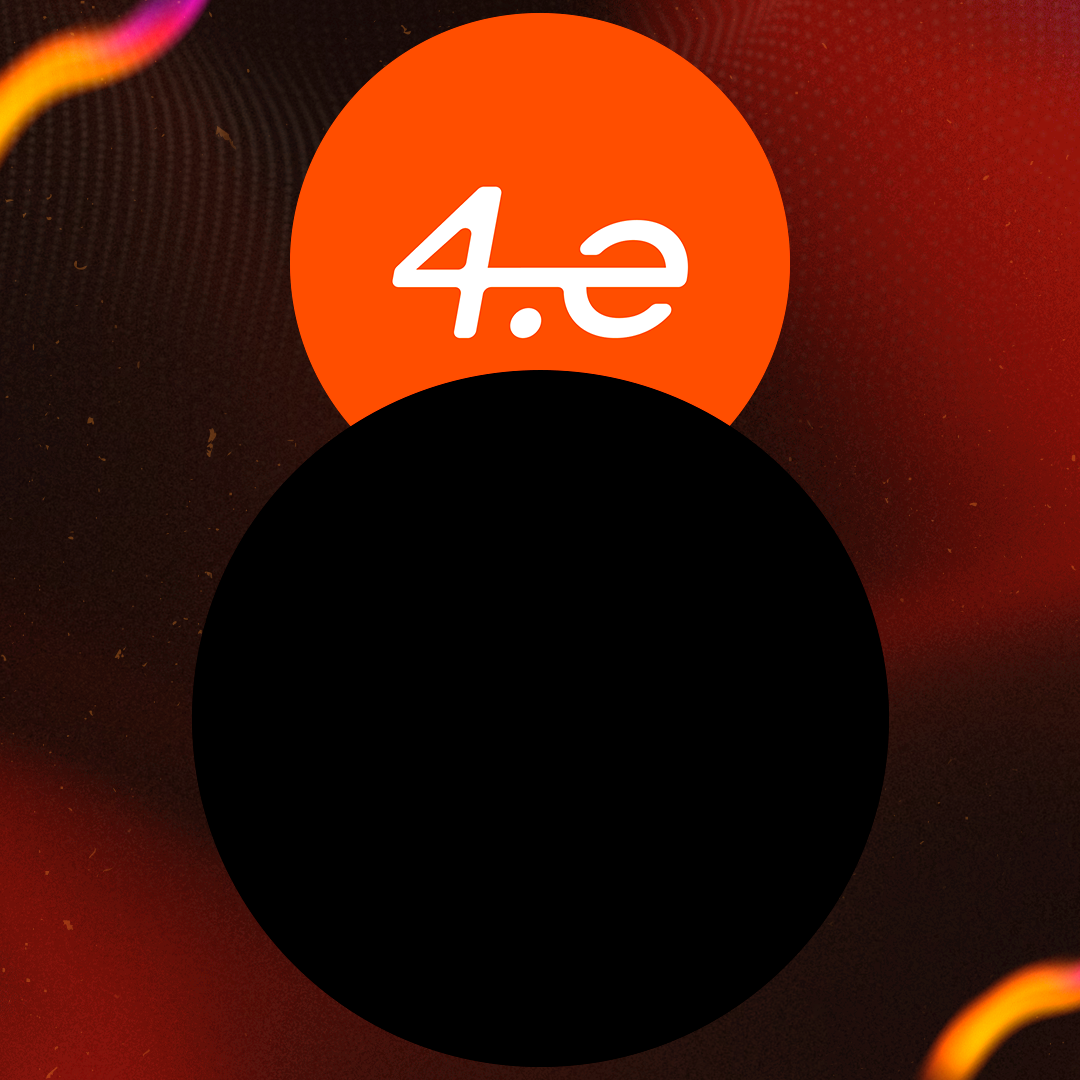
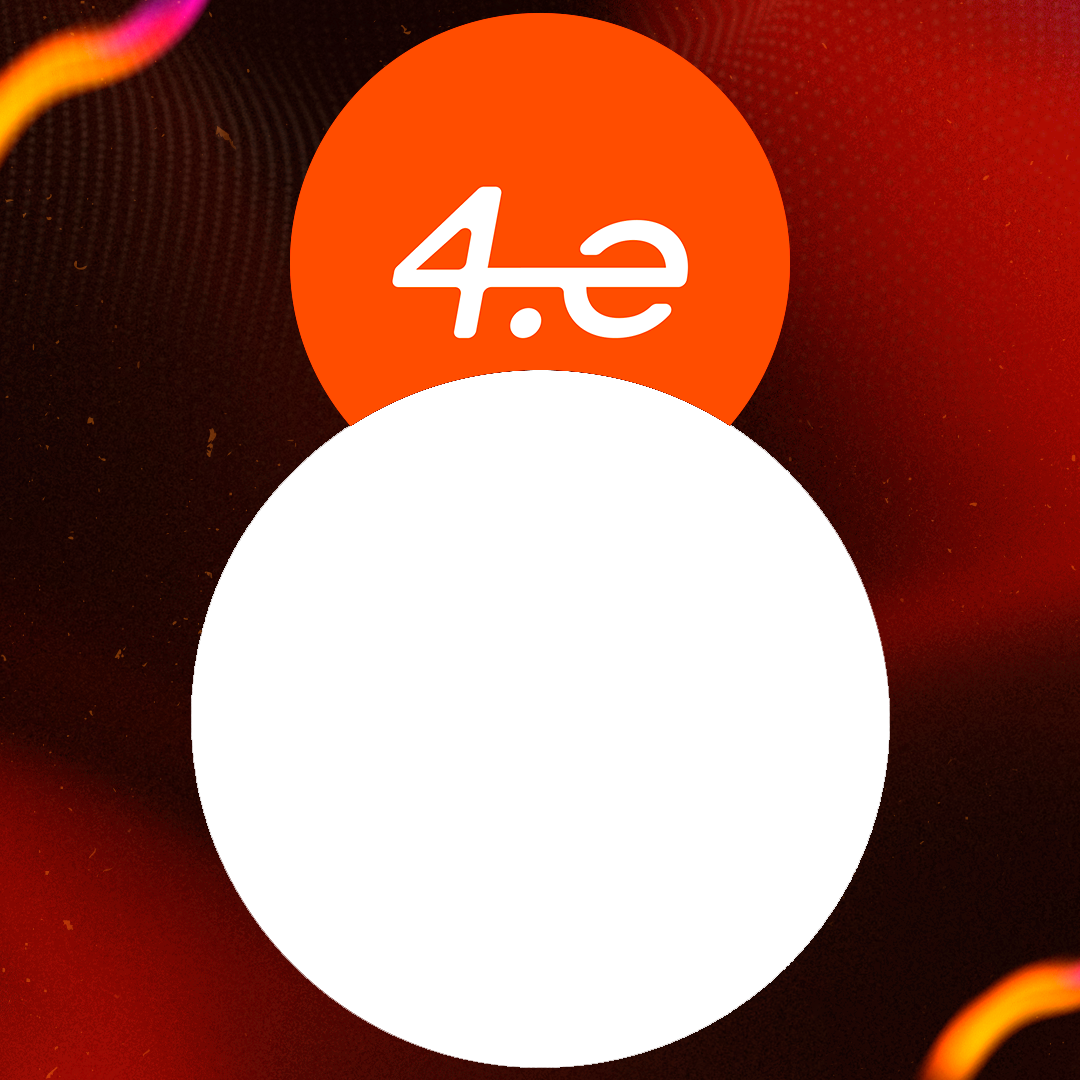
versão: atualização para v1.0.16 - melhoria no template de capa WhatsApp com fundo branco
- Substituir capa-whatsapp-template.png pela versão com fundo branco
- Melhorar visibilidade de logos para PNGs transparentes de clientes
- Atualizar referências de versão em todo o código
- Atualizar CHANGELOG.md com notas da nova versão

diff --git a/CHANGELOG.md b/CHANGELOG.md
@@ -9,6 +9,16 @@ e este projeto adere ao [Semantic Versioning](https://semver.org/lang/pt-BR/).
 ### Em Desenvolvimento
 - Funcionalidades futuras serão listadas aqui
 
+## [1.0.16] - 2025-09-21
+
+### Modificado
+- **Template de Capa WhatsApp**: Atualizado arquivo `capa-whatsapp-template.png` com fundo branco em vez de fundo preto
+  - Melhora a visibilidade para a maioria dos logos em formato PNG que tenham fundo transparente
+
+### Técnico
+- **Assets**: Substituição do arquivo de template na pasta `assets/capa-whatsapp-template.png`
+- **Comando /capa-whatsapp**: Funcionalidade inalterada, apenas melhoria no arquivo PNG template visual
+
 ## [1.0.15] - 2025-09-09
 
 ### ✨ Adicionado
